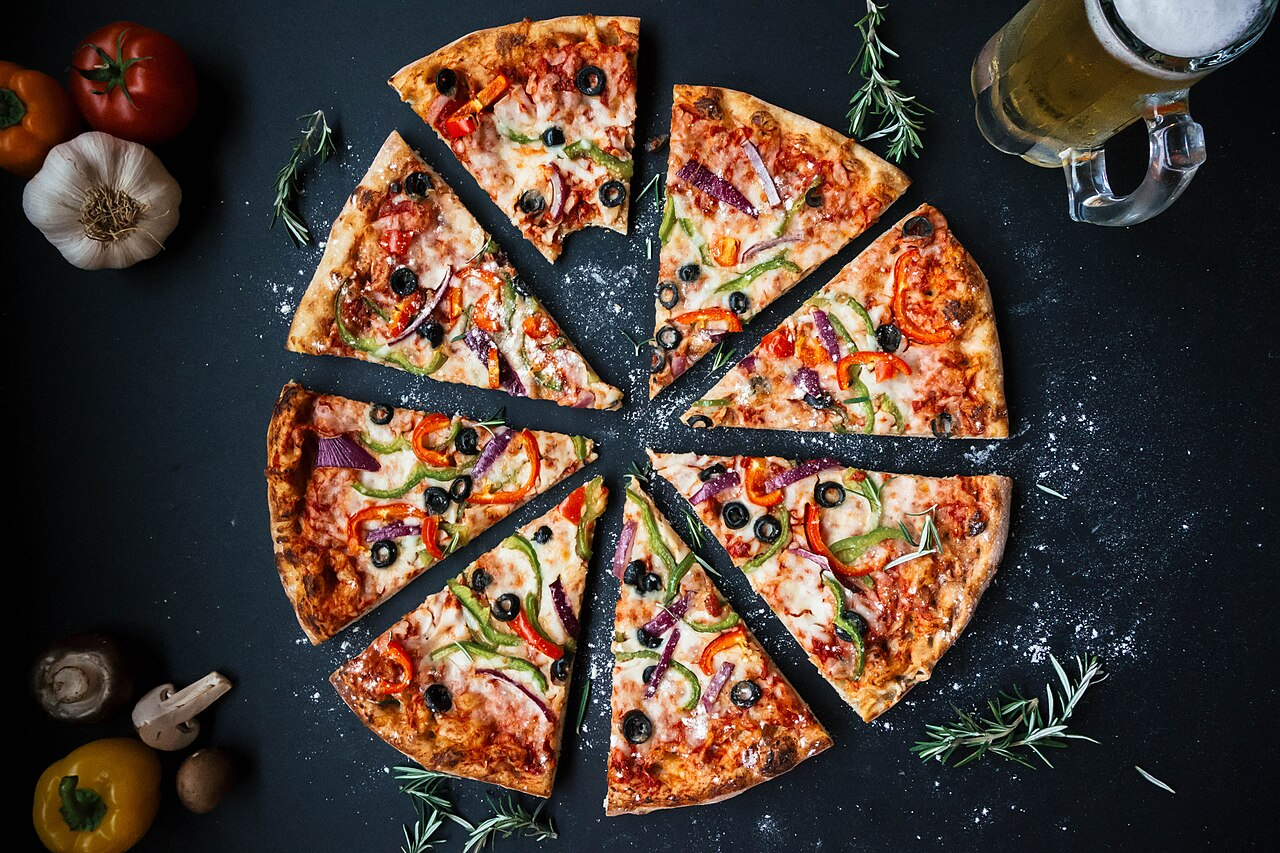
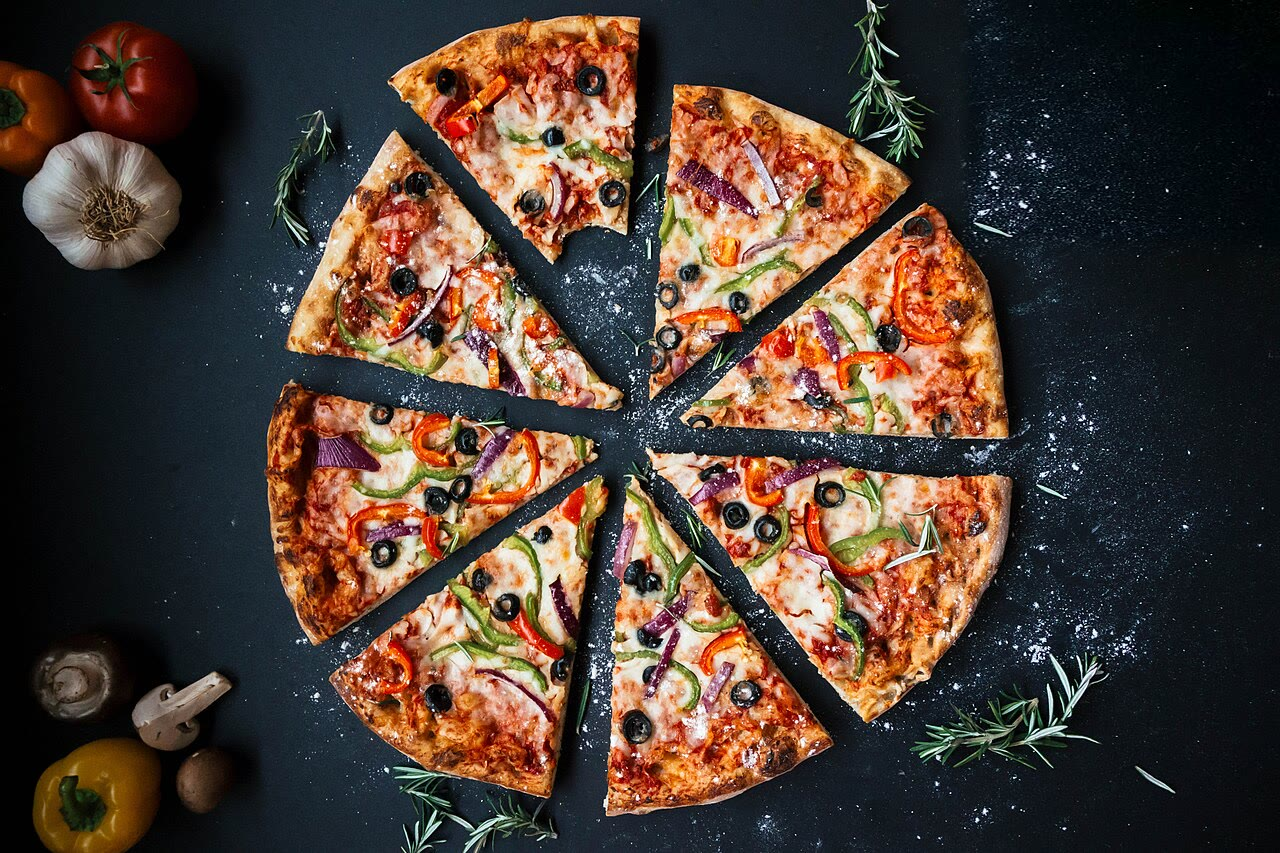
Remove a glass from the pizza photo and a hand from the puzzle photo; refresh the offline cache

Changed region(s): [[0.75, 0.0, 1.0, 0.3048]]

diff --git a/js/data/interp/videos.js b/js/data/interp/videos.js
@@ -13,7 +13,7 @@
   // Real photos used as memory pictures: { id: { file, title, by, license, source } }. Empty until photos are added.
   SI.photos = {
     conference: {"file":"conference.jpg","title":"Hearing of Commissioner-designate Thierry Breton (cropped)","by":"European Parliament","license":"CC BY 2.0","source":"https://commons.wikimedia.org/wiki/File:Hearing_of_Commissioner-designate_Thierry_Breton_(49068586441).jpg"},
-    pizza: {"file":"pizza.jpg","title":"Pizza","by":"igorovsyannykov","license":"CC0","source":"https://commons.wikimedia.org/wiki/File:Pizza-3007395.jpg"},
+    pizza: {"file":"pizza.jpg","title":"Pizza (edited: a glass removed)","by":"igorovsyannykov","license":"CC0","source":"https://commons.wikimedia.org/wiki/File:Pizza-3007395.jpg"},
     traffic: {"file":"traffic.jpg","title":"LED traffic light on red","by":"Kevin Payravi","license":"CC BY-SA 4.0","source":"https://commons.wikimedia.org/wiki/File:LED_traffic_light_on_red.jpg"},
     echo: {"file":"echo.jpg","title":"Echo Point Lookout","by":"MilaKampus","license":"CC BY-SA 4.0","source":"https://commons.wikimedia.org/wiki/File:Echo_Point_Lookout.jpg"},
     lightning: {"file":"lightning.jpg","title":"Lightning strike in the evening","by":"Валерия Бобыленко","license":"CC BY 4.0","source":"https://commons.wikimedia.org/wiki/File:Lightning_strike_in_the_evening.jpg"},
@@ -21,7 +21,7 @@
     weights: {"file":"weights.jpg","title":"Weight plates in gym","by":"Santeri Viinamäki","license":"CC BY-SA 4.0","source":"https://commons.wikimedia.org/wiki/File:Weight_plates_in_gym_20180112.jpg"},
     juggler: {"file":"juggler.jpg","title":"Juggling balls","by":"Richard Leonard","license":"CC BY 2.0","source":"https://commons.wikimedia.org/wiki/File:Juggling_Balls_(81706016).jpg"},
     scales: {"file":"scales.jpg","title":"Justice scale and flag","by":"St. Louis Circuit Attorney's Office","license":"CC BY-SA 4.0","source":"https://commons.wikimedia.org/wiki/File:Justice_scale_and_flag.jpg"},
-    puzzle: {"file":"puzzle.jpg","title":"Jigsaw puzzle solving","by":"kallerna","license":"CC BY-SA 4.0","source":"https://commons.wikimedia.org/wiki/File:Jigsaw_puzzle_solving_2.jpg"},
+    puzzle: {"file":"puzzle.jpg","title":"Jigsaw puzzle solving (cropped)","by":"kallerna","license":"CC BY-SA 4.0","source":"https://commons.wikimedia.org/wiki/File:Jigsaw_puzzle_solving_2.jpg"},
     seedling: {"file":"seedling.jpg","title":"Tomato seedlings grow in Plant Habitat-06","by":"NASA Johnson Space Center","license":"Public domain","source":"https://commons.wikimedia.org/wiki/File:Tomato_Seedlings_Grow_in_Plant_Habitat-06_(iss070e064263).jpg"},
     brain: {"file":"brain.jpg","title":"MRI of human brain","by":"Asnaebsa","license":"CC BY-SA 4.0","source":"https://commons.wikimedia.org/wiki/File:MRI_of_Human_Brain.jpg"},
     stopwatch: {"file":"stopwatch.jpg","title":"Stopwatch","by":"Ansgar Koreng","license":"CC BY-SA 4.0","source":"https://commons.wikimedia.org/wiki/File:Stopwatch%2C_1810201155%2C_ako.jpg"},

diff --git a/sw.js b/sw.js
@@ -1,5 +1,5 @@
 /* Offline cache. Only caches this site's own files; no network calls to anywhere else. */
-var CACHE = 'unrev-v16';
+var CACHE = 'unrev-v17';
 var FILES = [
   './', 'index.html', 'manifest.webmanifest', 'icon.svg', 'css/style.css',
   'js/data/terms.js', 'js/data/questions.js', 'js/data/answer-keys.js', 'js/data/resources.js', 'js/data/lessons.js', 'js/data/tourist/terms.js', 'js/data/tourist/content.js', 'js/data/tourist/reading.js', 'js/data/tourist/definitions.js', 'js/data/tourist/help.js', 'js/data/interp/gaps.js', 'js/data/interp/bank.js', 'js/data/interp/videos.js', 'js/data/interp/videos-ar.js', 'js/videos-ui.js', 'js/data/interp/content.js', 'js/subjects.js', 'js/i18n.js', 'js/i18n-ui.js', 'js/icons.js', 'js/check.js', 'js/storage.js',
